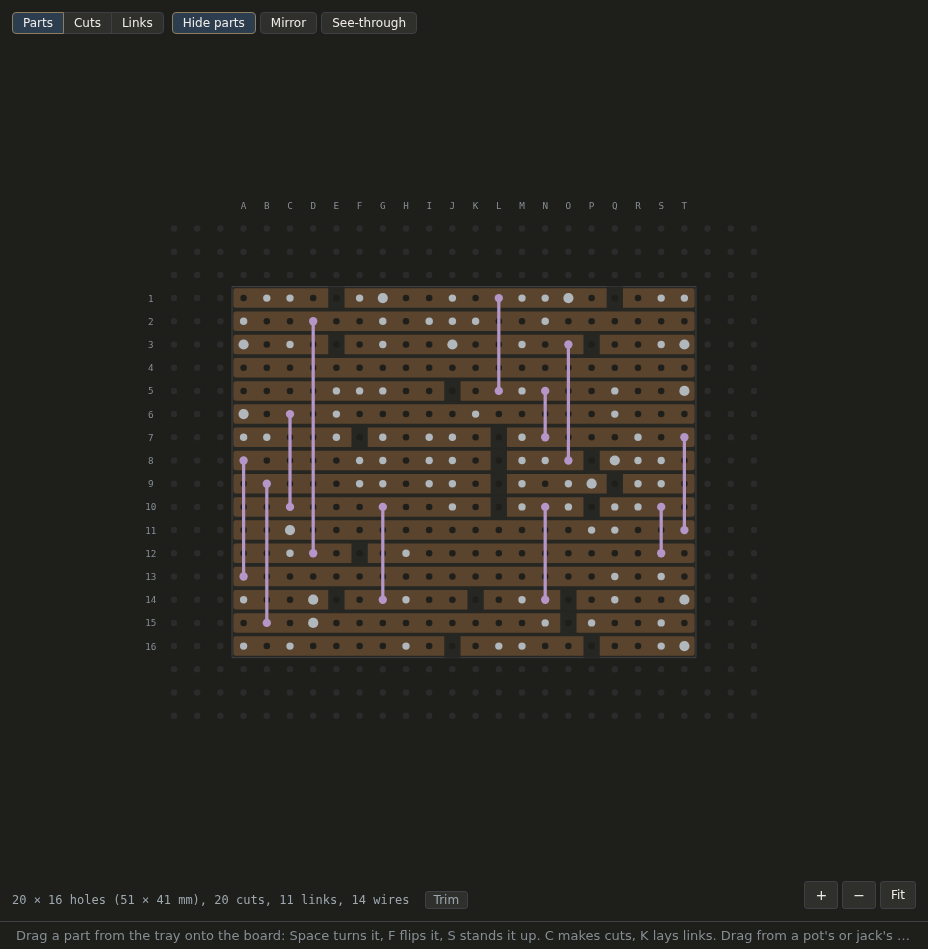
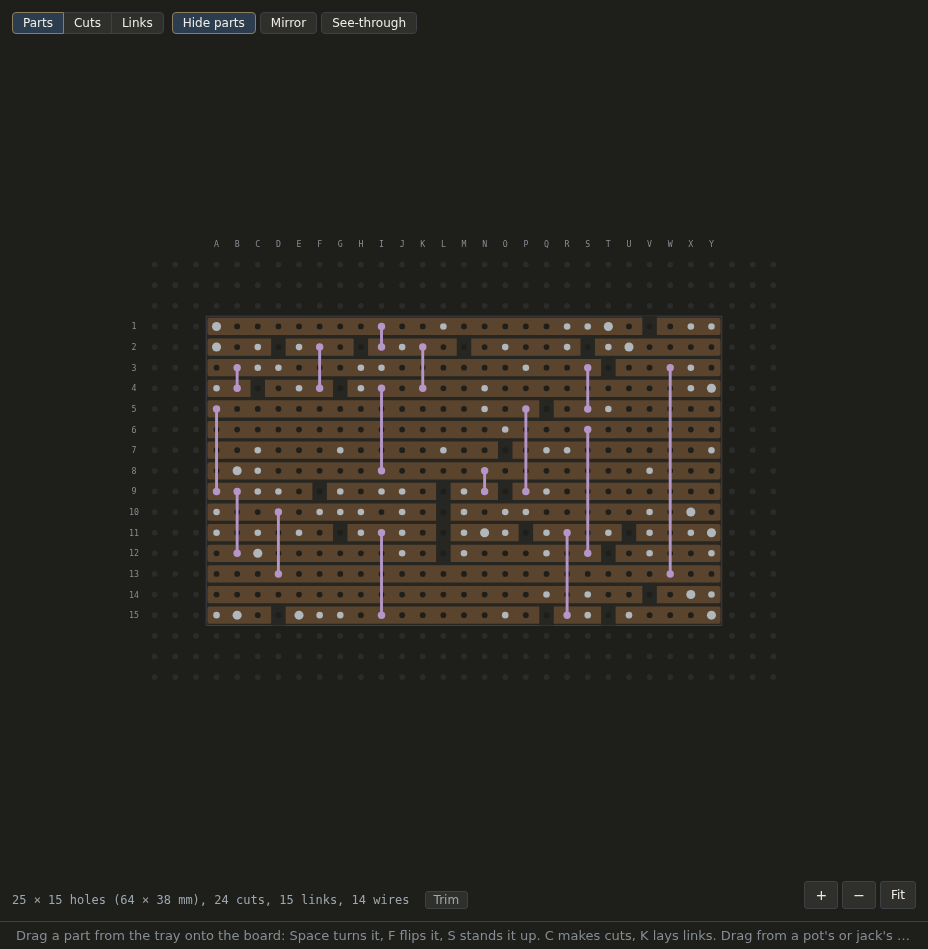
P6i6: the guide and the specs for the layout rules
The guide's Stripboard page: high gain by the gain to the output, the
decoupling cap's ground leg, a later strip beside a high-gain input and
the jacks' wires, and the standing choice in the Layout window with how
each layout choice uses it. Its Board pictures made again.

The specs to docs/specs/: STANDING-SPEC.md (D-403) and
OUTPUT-AWAY-SPEC.md (D-404); the decoupling ground leg as a section of
STRIPBOARD-SPEC.md.

Changed region(s): [[0.2188, 0.275, 0.7812, 0.7028]]

diff --git a/docs/guide/stripboard.md b/docs/guide/stripboard.md
@@ -60,13 +60,17 @@ Some parts only work as drawn when they sit close to a particular pin. A long ru
 - an op-amp's feedback parts (those between its output and its − input) by the − input;
 - a regulator's smallest capacitor on each side;
 - a transistor's bypass capacitor by its emitter (a JFET's by its source);
-- the parts in series with a high-gain stage's input. A stage counts as high gain when its own gain is ten times or more at any one of three settings: the knobs as set, all turned down, or all turned up. The app works this out by simulating the circuit. Parts whose other leg goes to ground, a supply or a reference voltage (a bias resistor, say) aren't kept: no signal reaches them there.
+- the parts in series with a high-gain stage's input. A stage's input counts as high gain when the gain from there to the output is 25 dB (about 18 times) or more at any one of three settings: the knobs as set, all turned down, or all turned up. "The output" is the input of the last knob on the way to the output jack (the Volume or Level, so turning it down doesn't hide the gain before it), or the jack itself when there's no knob. An input on a node of 470 kΩ or more counts from 20 dB (10 times): with the guitar's volume down nothing loads it, and it picks up hum easily. So an input buffer ahead of a drive counts, and a stage with little gain left after it doesn't. The app works this out by simulating the circuit. Parts whose other leg goes to ground, a supply or a reference voltage (a bias resistor, say) aren't kept: no signal reaches them there.
 
 A limit is met when the part's leg is **on the pin's own strip, within 2 holes of the pin, joined to it directly along the strip**: no cut between them. A part that reaches the pin's net only through a link round a cut doesn't count. Each more part kept by the same pin gets one more hole: three feedback parts on one pin may be up to 4 holes away. These are warnings, not faults: the board still matches the circuit, and you can decide a part is fine where it is.
+
+A chip's decoupling capacitor has a second, looser rule: its **ground leg within 4 holes of the chip's ground pin, counted along the copper** (along the strip, and through a link by its length: the way the current flows). A capacitor on a ground strip that's close by but joined to the chip's ground only far round fails: *C5's ground leg is 11 holes from IC1's pin 4 along the copper (its decoupling cap's loop): keep it within 4 holes along the strip or a link, so the loop stays small.* A chip on a split supply (a charge pump's ±9 V) has no ground pin, and isn't checked. The layout help doesn't follow this one: it's yours to check.
 
 A limit broken is a warning that says what breaks it: *D1, D2 and C4 should sit by IC1's pin 6 at O15 (a feedback part): on its strip within 4 holes, nothing between. D1: it's 9 holes away.* When you pick up such a part, only the holes that keep it by its pin are marked; if none is free, the card says what's in the way.
 
 The board also warns of a **link running under or beside a part on a high-gain input**, where it could pick up noise: *The link from I7 to I15 runs beside R5, on IC1's pin 5 (the high-gain stage's input): move it a column or two.* A link counts when it passes under such a part, within one hole of one of its legs in any direction, or under a chip with a high-gain input pin. Links on ground, the supplies and reference voltages don't count: they carry no signal to pick up.
+
+And it warns of a **later node's strip running beside a high-gain input's**, which is how fuzzes and high-gain drives come to squeal: neighbouring strips couple a little, and at high gain that's enough for the output to feed back into the input. *Strips 8 and 9 run side by side from A to O: IC1's pin 5 (the high-gain stage's input) beside C4's pin 2, later and in phase with it. Cut one shorter or move it a strip further, so the output can't feed back into the input and squeal.* It counts only a node that would add to the input: louder than it and in phase with it (within a quarter turn) at 2, 10 or 50 kHz, with high gain between. An inverting stage's output beside its input only trims the treble, and isn't warned; nor is a stage's own feedback (its − input, its emitter, or a node a feedback resistor joins to the input). Two strips count when their copper runs side by side for 3 columns or more with no cut. The same goes for the **input and output jacks' wires**: when the output is in phase with the guitar, the board warns if their wires run side by side (in one lane or the next) for more than 10 mm.
 
 ### Bodies that touch
 
@@ -114,14 +118,24 @@ Start a board and Tidy up give you a start to work from; Build a full layout giv
 
 ### How the layout help works
 
-All four follow the placement limits and avoid links near high-gain inputs where they can, and all leave a board that passes the check.
+All four follow the placement limits and avoid links near high-gain inputs and later strips beside them where they can, and all leave a board that passes the check.
 
 - **Start a board** lays the parts out left to right in signal order, from the input. Each net is carried along a strip, a part's legs go across the strips to reach their nets, and a part kept by a pin (a decoupling capacitor, a feedback part) is laid out right beside that pin's part. Any net still in pieces gets a strip of its own across the board, with each piece linked to it, which is why it never fails. It's quick and always the same, but roomy: a start, not a finished board.
 - **Fill the rest** does the same for the tray's parts only, below what you placed, linking them up to it. Your parts don't move.
 - **Tidy up** tries small changes one at a time, in a fixed order: drop a link or cut, move a part, link or cut one hole left or up, take out an empty column or strip, trim the edges. It keeps a change only when the board still passes the check, no limit it met is broken, and the board is no bigger and has no more cuts or links. It stops when nothing more helps.
-- **Build a full layout** starts from Start a board's layout, squeezes out the empty lines, then searches. It makes thousands of random changes (slide a part, change its shape, swap two parts, take out a line, move a part a long way), and works out the cuts and links again after each one. A part's shapes are every way it fits: across or along the strips, a trimmer turned a quarter, and a resistor or diode stood up. So a full layout often stands resistors and diodes up to save room; Start a board, Fill the rest and Tidy up never do. A change that makes the board better is kept; early on, a change that makes it a little worse is sometimes kept too, so the search can get out of a dead end, and that happens less and less as it goes on (the method is called simulated annealing). Parts never land on each other, and no new touching bodies are made.
+- **Build a full layout** starts from Start a board's layout, squeezes out the empty lines, then searches. It makes thousands of random changes (slide a part, change its shape, swap two parts, take out a line, move a part a long way), and works out the cuts and links again after each one. A part's shapes are every way it fits: across or along the strips, a trimmer turned a quarter, and a resistor or diode stood up when the board's choice allows it (see [Standing resistors and diodes](#standing-resistors-and-diodes)). A change that makes the board better is kept; early on, a change that makes it a little worse is sometimes kept too, so the search can get out of a dead end, and that happens less and less as it goes on (the method is called simulated annealing). Parts never land on each other, and no new touching bodies are made.
 
-  It makes four such attempts side by side, each from a different random start, and keeps the best board. The best board is the one that breaks the fewest placement limits; then the one with the fewest links near a high-gain input; then the smallest, meaning the fewest holes in all (columns × strips); then the one with the fewest cuts and links. Each attempt runs a fixed number of steps (more for a bigger circuit), not a fixed time, so the same circuit gives the same board on any computer. **Thorough** runs each attempt four times as long, and **Try another** runs four attempts from other random starts.
+  It makes four such attempts side by side, each from a different random start, and keeps the best board. The best board is the one that breaks the fewest placement limits; then the one with the fewest links near a high-gain input and later strips beside one; then the smallest, meaning the fewest holes in all (columns × strips); then the one with the fewest cuts and links. Each attempt runs a fixed number of steps (more for a bigger circuit), not a fixed time, so the same circuit gives the same board on any computer. **Thorough** runs each attempt four times as long, and **Try another** runs four attempts from other random starts.
+
+### Standing resistors and diodes
+
+The last line of the Layout window, **Standing resistors and diodes**, says whether the layout help may stand a resistor or diode up (its body over one hole, its lead bent down to the next), for whichever choice runs:
+
+- **Never**: everything lies flat.
+- **When it saves room** (the first choice on a new board): Start a board lays everything flat; Fill the rest stands a part only where it fits better that way; Tidy up stands a part only when the board then loses at least a column's worth of holes; Build a full layout counts each standing part as a column's worth of board (as many holes as the board has strips), so it keeps one only where it saves more than that.
+- **Prefer**: stood up wherever it fits; Tidy up stands a part whenever the board gets no worse.
+
+The choice is kept with the board: the window opens on it, and **Try another** and a later Tidy up or Fill the rest use it. A standing part's body is checked for touching like any other.
 
 ### Build a full layout
 

diff --git a/docs/specs/OUTPUT-AWAY-SPEC.md b/docs/specs/OUTPUT-AWAY-SPEC.md
@@ -1,0 +1,39 @@
+# A stage's output kept away from its input (P6i2)
+
+## Goal
+The failure that makes fuzzes and high-gain drives squeal: a later node's copper running alongside an earlier high-gain input's (neighbouring strips couple a little through the board, enough at high gain and impedance), and the input and output jacks' wires running side by side round the board's edge. Warn about both, and have the layout help keep clear of the first.
+
+## When a pair counts: the phase test
+A later net beside a high-gain input (P6i3's: `probe.loud_inputs`) counts only when what couples back **adds** to the input: positive feedback. An inverting stage's output beside its input only trims the treble.
+- Read from the AC run the high-gain check already makes (the pots as set, all down, all up), at **2, 10 and 50 kHz** (three points, not a sweep: at 10 kHz alone a stage's 6–8 kHz low-pass can make a real pair look harmless, squeal can sit higher, and phase drifts across the band; the user).
+- A net is kept off the input's side when, at **any** of the three, it is **louder than the input**, **in phase with it within ±90°**, and the gain from the input to the output (P6i3's measure, to the last pot's input) clears P6i3's threshold there (25 dB, or 20 dB on a node of 470 kΩ or more).
+- Only nets **after** the input on the signal path; never ground, a rail or a bias net (AC-quiet).
+- **Feedback meant is left out**: the stage's own pin that follows the input (an op-amp's − input, an emitter, a source), and a net a two-leg part joins to the input directly (a feedback resistor's far end: the board's fraction of a picofarad is nothing beside the part).
+- On the starters: the Fuzz Face's Q1 base keeps Q2's collector and the output cap off its side, not Q1's own collector (inverted) nor Q2's emitter (the feedback resistor); the TS808's inputs keep the clipping stage's output, the tone stage and the output buffer away; the Rangemaster has none (one inverting stage).
+
+## "Alongside" on the board (*default*)
+Two neighbouring strips whose copper, joined to the two nets, runs side by side for **3 columns or more, uncut** (`apart.ALONGSIDE`). Copper with no leg on it (cut off past the last leg) doesn't count. A warning, never a refusal:
+
+> Strips 8 and 9 run side by side from A to O: IC1's pin 5 (the high-gain stage's input) beside C4's pin 2, later and in phase with it. Cut one shorter or move it a strip further, so the output can't feed back into the input and squeal.
+
+**The layout help follows it**: Build a full layout counts each such pair of strips as it counts a noisy link (after limits broken, before size: `compact.APART`, the key's second place); Start a board and Tidy up count it with the noisy links, and Tidy never makes it worse.
+
+## The jacks' wires (*default*)
+When the output is in phase with the guitar at one of the three frequencies with high gain between (`probe.jacks_in_phase`), the IN and OUT jacks' tip wires as drawn may run side by side (in one lane or the next, half a hole apart) for **10 mm at most** (`board-logic.js`' `APART_MM`). Further, a warning: "The input and output jacks' wires run side by side for 15 mm: …". The routes are the browser's (D-375: a wire is only lug + hole to the server), so the measure is there; the server says only whether the circuit needs it (`jacks_apart`). Wire it for me puts the input jack right and the output left, so this is rare: it comes when a builder drags a jack or bends a wire's run.
+
+## The tuning (Fuzz Face and Big Muff, the user)
+Measured with 2 seeds × 3000 steps of the search, on 2026-11-24:
+
+| Starter | Inputs (later nets kept off) | Start board | Full layout without the cost | with it |
+|---|---|---|---|---|
+| Fuzz Face | Q1.B (4) | 1 pair | 7×9, 1 pair | 7×9, 1 pair |
+| Big Muff Pi v3 | Q4.B (14), Q3.B (8), Q2.B (4) | 1 | 30×24, 0 | 30×24, 0 |
+| Rangemaster | Q1.B (none) | 0 | 9×7, 0 | – |
+| TS808 | Q1.B (15), IC1B.+ (15) | 1 | 44×17, 1 | 46×17, 0 |
+
+At 3 columns a Fuzz Face of its size can't always keep clear: a warning the builder reads, not a bigger board forced. 2 columns would flag almost every pair of neighbours with a leg each; 4 lets a whole transistor's width run beside its input. The jacks' 10 mm is four holes: a wire crossing another's lane, or bending past it, never warns; one routed along it does.
+
+## Out of scope
+- Shielded wire, or the wires' length in themselves.
+- Coupling between strips two apart, or through a part's body.
+- Moving the jacks: Wire it for me already puts them on opposite sides.

diff --git a/docs/specs/STANDING-SPEC.md b/docs/specs/STANDING-SPEC.md
@@ -1,0 +1,36 @@
+# Standing resistors and diodes: a choice (P6i1)
+
+## Goal
+Today Start a board, Fill the rest and Tidy up never stand a part up, while Build a full layout stands up as many as it can (it costs nothing), so the TS808's full layout has nine parts standing (R6, R9, R11, R14, R32, R34, R35, D1, D2). Builders differ: some never stand parts (sturdier, easier to read), some like the room it saves. The builder chooses, and the choice stays with the board.
+
+## What the builder gets
+- In the **Layout…** window, one line under the choices: **Standing resistors and diodes: Never / When it saves room / Prefer**. Default **When it saves room**. It applies to whichever layout choice runs (Start a board, Fill the rest, Tidy up, Build a full layout).
+- The window opens on the **board's own choice** (the one that made it; the default on a board that has none). What's run is kept with the board, so **Try another** (the review bar) and a later Tidy up or Fill the rest use it unless the builder changes it in the window.
+- A standing part is checked for touching like any other body (it had no outline before).
+
+## How each layout choice uses it
+| | Never | When it saves room (default) | Prefer |
+|---|---|---|---|
+| **Start a board** | none stand | none stand (roomy and predictable) | standing tried first: a part stands wherever it fits |
+| **Fill the rest** | none stand | standing tried after lying flat: chosen only where it's cheaper in the band | standing tried first |
+| **Tidy up** | no shape step | a part stood up only when the board then shrinks by at least a column's worth of holes (the board's strips) | a part stood up whenever the board's size, cuts and links get no worse |
+| **Build a full layout** | no standing shapes | each standing part costs a column's worth of holes (the board's strips): kept only where it saves more | as before: standing costs nothing |
+
+**The cost, "a column's worth"**: the board's strips count as holes of board, per standing part, in the search's cost and in choosing the best board. A strip's worth was weighed (it barely changes anything on a wide board) and a fixed count of holes (20) too (it means a column on one board and half a column on another): the user chose "about a column's worth of holes (the board's strips count)" (2026-11-24).
+
+## The outline of a standing part
+The body stands over its first leg (as the board draws it: a circle over the first leg, the lead bent down to the other). Its outline is a box along the legs: from the body's far side (half its diameter past the first leg) to half a lead (0.3 mm) past the other leg, as wide as the body (the bent lead over the other hole stays within it). Two standing ¼ W resistors on neighbouring strips (2.5 mm bodies, 2.54 mm apart) aren't warned, like flat ones (P6i5).
+
+## The file
+`stripboard.stand_up`: `"never"`, `"room"` or `"prefer"`; left out when `"room"` (defaults aren't written). `stripboard.standing` (the parts stood up) already exists, so the choice can't take that name. Schema 41; a v40 board has none, so it reads as "room" (the default: what a new board gets), and the migration changes nothing. Old-version fixture `tests/fixtures/circuits/old/schema-v40.json`.
+
+## Out of scope
+- Laying a standing part flat again in Tidy up (Never on a board with standing parts: Tidy up leaves them; Start a board or Build a full layout with Never lays everything flat).
+- Standing other parts (a film cap on its side, a transistor bent over).
+- A per-part choice.
+
+## Decisions it needs
+D-403 (the choice, its default, where it's kept, how each layout choice uses it, the cost); D-388 amended (Tidy up's shape step); D-399 amended (the cost); D-394 amended (standing parts' outline).
+
+## Open questions
+None: the user answered them on 2026-11-24 (P6i1 in `notes/PHASES.md`); *default* choices the agent made are marked in the PR: the outline's box, Fill the rest's "after lying flat", Tidy up's Prefer rule.

diff --git a/docs/specs/STRIPBOARD-SPEC.md b/docs/specs/STRIPBOARD-SPEC.md
@@ -12,7 +12,8 @@ Laying out the whole board automatically was tried first. Small circuits laid ou
 - **The board model** (`solum/stripboard/board.py`, D-367): holes 0.1" apart, strips along the rows, cuts at holes, links down a column, off-board parts beside the board joined by wires; a board's plain form (`layout_from_data`, `layout_data`) is what the circuit file holds.
 - **The footprints table** (`library/guides/footprints.yaml`, `footprints.py`, sourced): each board part's leg spacing and body, from the part's attributes in the schematic (a resistor's rating, a capacitor's kind and value, a transistor's package, a trimmer's style). A trimmer is the triangle kind (Bourns 3362P: legs 1 and 3 two holes apart, the wiper a hole back between them) unless set in line (Bourns 3296W), D-393. A surface-mount transistor goes on the board only on a TO-92 adapter (its *Mounting*; a JFET's legs D-S-G), D-392.
 - **The check** (`check.py`, D-367): the board read back into nets and compared with `connect(circuit)`, every fault a sentence; placement faults (two things in a hole, a body over a leg, a leg the footprint doesn't allow, a link under a standing body). The **progress check** (D-368) is the same reading for a board in the making: unplaced parts are *to place*, not faults.
-- **Placement limits** (`limits.py`): a chip's decoupling cap, a charge pump's caps, an op-amp's feedback parts by their pin; warnings, not faults.
+- **Placement limits** (`limits.py`): a chip's decoupling cap, a charge pump's caps, an op-amp's feedback parts by their pin; warnings, not faults. Since D-400 also a regulator's caps, a transistor's bypass cap and a high-gain stage's input (high gain by the gain to the output, P6i3); quiet links (`QUIET-LINKS-SPEC.md`), a stage's output kept away from its input (`OUTPUT-AWAY-SPEC.md`) and standing parts (`STANDING-SPEC.md`) have specs of their own.
+- **A decoupling cap's ground leg** (P6i4, D-400 amended): a single-supply chip's decoupling cap's ground leg within 4 holes of the chip's ground pin (V−) **measured along the copper**: along the strip with no cut between, and through a link by its length, the way the current flows (a cap on a ground strip close by but joined far round fails; the user). A warning only, not followed by the layout help (the search can't see the ground links the wiring puts down); the supply leg's own 2-hole rule is unchanged. A leg not yet joined to the pin isn't warned (the nets' check says so). **Split supplies** (a charge pump's ±9 V: V− isn't ground) are skipped: each supply's cap goes to ground, so the nearest ground copper always passes, and where the returns meet is another rule. On a DIP-8 the supply's cap sits by pin 8 and its ground leg lands on another strip, so the same 2-hole rule for the ground leg would flag nearly every chip: hence the looser reach.
 
 ## The circuit is the only source of parts (the user, 2026-11-20)
 - The editor shows **only the circuit's parts**: the on-board ones `export.built_where` names (the parts list's split, D-203) go on the board; the off-board ones (pots, switches but DIP, jacks, the DC jack, the battery, the status LED) sit **whole, beside the board**, joined to it by **wires**. **The bypass comes only from the schematic** (D-385): the builder adds the True bypass block in the schematic and wires it in; its footswitch, LED and resistor are circuit parts like any other. No stock footswitch or status LED is offered (it risks a second bypass). **On the board / Off the board, per part** (D-385): right-click a placed part, its tray row or an off-board part to move it to the other side of the board's edge (a part with no footprint greyed, with why), or back to the parts list's place; kept with the board, followed by the parts list.

diff --git a/docs/DECISIONS.md b/docs/DECISIONS.md
@@ -2398,7 +2398,7 @@ Calculators → *Filter* (`filterCalculator` in `web/tools.js`, `GET /api/tools/
 
 
 **D-403 — Standing resistors and diodes: Never, When it saves room or Prefer, kept with the board** (2026-11-24) `build` `editor` `schema`
-- The Layout window's last line, **Standing resistors and diodes: Never / When it saves room / Prefer**, default **When it saves room** (the user, 2026-11-24), for whichever layout choice runs. It opens on the board's own choice and what runs is kept with the board (`stripboard.stand_up`, schema 41; left out when "room"; `standing`, the parts stood up, already had the name), so *Try another* and a later Tidy up or Fill the rest use it unless changed. Part of the same-board-everywhere choice: the board, not the computer, says how it was made.
+- Spec `docs/specs/STANDING-SPEC.md`. The Layout window's last line, **Standing resistors and diodes: Never / When it saves room / Prefer**, default **When it saves room** (the user, 2026-11-24), for whichever layout choice runs. It opens on the board's own choice and what runs is kept with the board (`stripboard.stand_up`, schema 41; left out when "room"; `standing`, the parts stood up, already had the name), so *Try another* and a later Tidy up or Fill the rest use it unless changed. Part of the same-board-everywhere choice: the board, not the computer, says how it was made.
 - **How each choice uses it** (`start.stand_order`): **Start a board** stands parts only when preferred (roomy and predictable: the user); **Fill the rest** tries standing after lying flat when it saves room, first when preferred; **Tidy up** gains a shape step (D-388 note); **Build a full layout** costs each standing part a column's worth of holes when it saves room, nothing when preferred (D-399 note). Never: no standing shape anywhere.
 - **The cost, a column's worth** (the user: "about a column's worth of holes; the board's strips count"): a standing part is kept only where it saves more board than one column. On the starters' full layouts: MEASURED.
 - **Outline**: a standing part's body is over its first leg and its lead bent over to the other (D-394 note), so standing parts are checked for touching.
